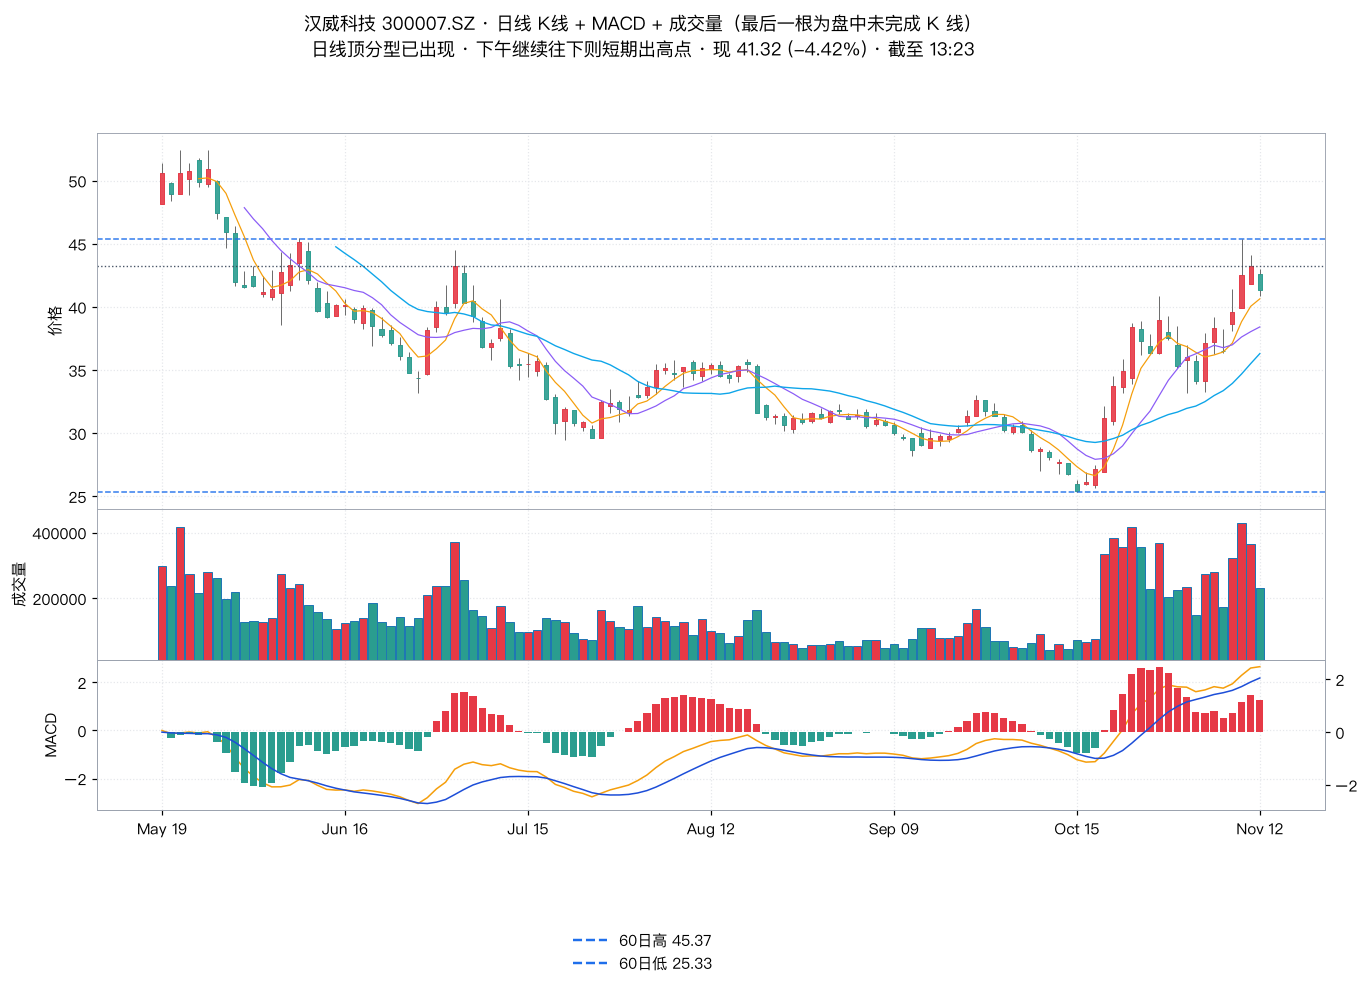
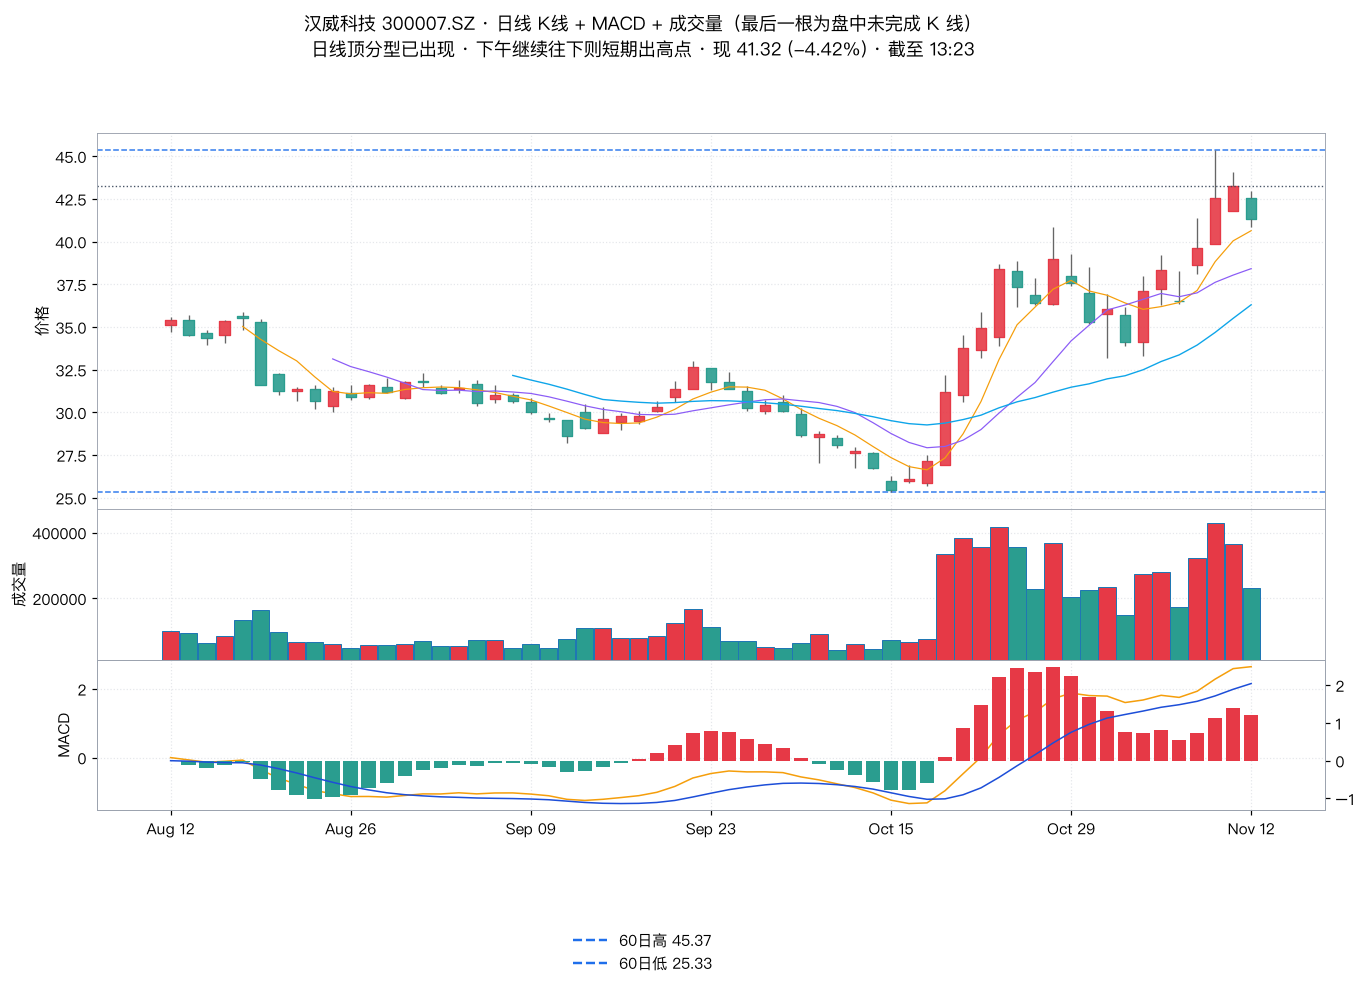
fix(图表): 修正 11/12 午评版指数图成交量量纲，保留盘中时点含义
- 上证指数：新浪 sh000001 的 vol 与 Tushare 000001.SH 同为「手」，去掉错误的 //100
  （原 13:23 今日柱只有历史 1/100）
- 创业板指：新浪 sz399006 的 vol 单位是「股」且为创业板指相关股票总量口径，
  Tushare 399006.SZ 是成分股口径 → 按当日口径比值 0.20072 折算，
  今日柱 ≈ 27.9M 手（对应全天 39.5M 的 70.5%，与 13:23 时点吻合）
- 今日那根仍是 13:23 盘中未完成 K 线，盘中时点语义不变
- 图窗口由 120 根改为 60 根，与图例「60 日高/60 日低」自洽

diff --git a/scripts/dyh_charts_20261112.py b/scripts/dyh_charts_20261112.py
@@ -17,6 +17,7 @@ import matplotlib.font_manager as fm
 from matplotlib.lines import Line2D
 import mplfinance as mpf
 import numpy as np
+import json
 import pandas as pd
 import tushare as ts
 
@@ -115,7 +116,7 @@ TODAY_LV = {
 }
 
 
-def fetch_daily(ts_code, days=120):
+def fetch_daily(ts_code, days=60):
     is_index = ts_code in ("000001.SH", "399006.SZ", "399001.SZ", "000688.SH", "000300.SH")
     for _ in range(4):
         try:
@@ -173,6 +174,18 @@ def add_legend(fig, levels):
                fontsize=10, handlelength=2.2, columnspacing=2.4, bbox_to_anchor=(0.5, 0.0))
 
 
+def cyb_ratio():
+    """新浪 sz399006 的 vol（单位：股）是「创业板指相关股票总量」口径，
+    而 Tushare index_daily 的 399006.SZ 是「创业板指成分股」口径（单位：手）。
+    历史柱用 Tushare，今日柱用新浪盘中快照 → 需按当日口径比值折算才能同量纲。
+    比值 = Tushare 成分股全天量 / (新浪当日全市场式量 / 100)，两者同源同口径。"""
+    close_snap = json.loads((RPT / "data_20261112_close.json").read_text(encoding="utf-8"))
+    sina_close = close_snap["index"]["创业板指"]["vol"] / 100.0     # 股 → 手
+    ts_full = pro.index_daily(ts_code="399006.SZ", trade_date="20261112")
+    ts_cyb = float(ts_full["vol"].iloc[0])
+    return ts_cyb / sina_close
+
+
 def snap_of(name):
     if name in Q:
         r = Q[name]
@@ -180,8 +193,13 @@ def snap_of(name):
                 "prev": r["昨收"], "pct": r["涨跌幅%"], "vol": r["今日量(手)"]}
     if name in IX:
         s = IX[name]
+        vol = s["vol"]
+        if name == "创业板指":
+            # 新浪深市指数 vol 单位是「股」→ /100 换手，再折算到成分股口径
+            vol = vol / 100.0 * CYB_RATIO
+        # 上证指数：新浪 sh000001 的 vol 与 Tushare 000001.SH 同为「手」，不再 //100
         return {"price": s["price"], "high": s["high"], "low": s["low"], "open": s["open"],
-                "prev": s["prev"], "pct": s["pct"], "vol": s["vol"] // 100}
+                "prev": s["prev"], "pct": s["pct"], "vol": vol}
     return None
 
 
@@ -237,6 +255,9 @@ def plot_one(name, ts_code, suffix, levels):
     return {"name": name, "code": ts_code, "close": round(last_close, 2),
             "pct": round(pct, 2), "file": out.name}
 
+
+CYB_RATIO = cyb_ratio()
+print(f"[口径] 创业板指 新浪→Tushare 成分股口径折算系数 = {CYB_RATIO:.5f}")
 
 meta = []
 for nm, (code, suffix, lv) in SPEC.items():
